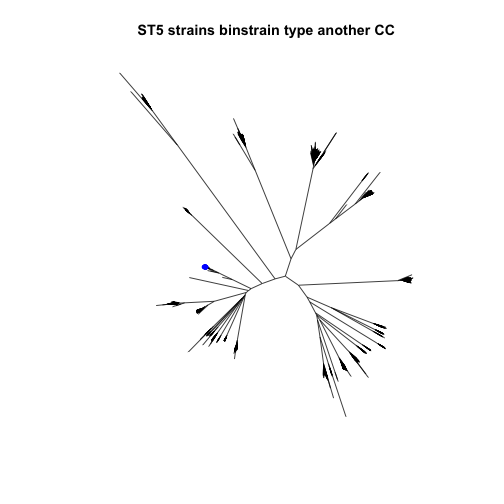
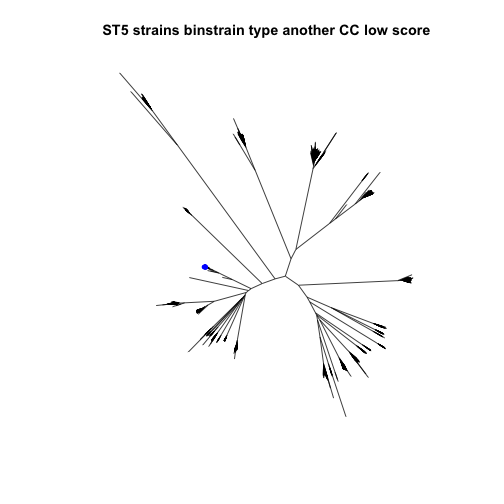
rerun ST5 figures

Changed region(s): [[0.2083, 0.0298, 0.8631, 0.0893]]

diff --git a/ST_tree_figure.md b/ST_tree_figure.md
@@ -89,8 +89,8 @@ Load in the binstrain assignments for the ST5 and dive into those that were assi
 ```r
 St5_assign <- read.table("./Data/Final_highest_Beta_real_ST_5.txt",header = FALSE, stringsAsFactors = FALSE)
 CC5_St5 <- filter(St5_assign, grepl("CC_5",V2)) %>% select(V1)
-ST5_not_CC5 <- filter(St5_assign, !grepl("CC_5",V2)) %>% filter(V3 > 0.7) %>% select(V1)
-ST5_not_anything <- filter(St5_assign, !grepl("CC_5",V2)) %>% filter(V3 <= 0.7) %>% select(V1)
+ST5_not_CC5 <- filter(St5_assign, !grepl("CC_5",V2)) %>% filter(V3 > 0.8) %>% select(V1)
+ST5_not_anything <- filter(St5_assign, !grepl("CC_5",V2)) %>% filter(V3 <= 0.8) %>% select(V1)
 ```
 ### Now print the different assignments
 
@@ -106,7 +106,7 @@ tiplabels(tip = tips2label, pch= 20, col = "blue")
 
 ```r
 tips2label <- which(NJ$tip.label %in% ST5_not_CC5[,"V1"])
-tit <- "ST5 strains binstrain type another CC"
+tit <- "ST5 strains binstrain type another CC low score"
 plot(NJ, "unrooted", show.tip.label = FALSE, main = tit)
 tiplabels(tip = tips2label, pch= 20, col = "blue")
 ```
@@ -116,11 +116,11 @@ tiplabels(tip = tips2label, pch= 20, col = "blue")
 
 ```r
 tips2label <- which(NJ$tip.label %in% ST5_not_anything[,"V1"])
-tit <- "ST5 strains binstrain type another CC but low score"
+tit <- "ST5 strains binstrain type another CC"
 plot(NJ, "unrooted", show.tip.label = FALSE, main = tit)
 tiplabels(tip = tips2label, pch= 20, col = "blue")
 ```
 
-![plot of chunk ST5_classed_as_nothing](figure/ST5_classed_as_nothing-1.png)
+![plot of chunk ST5](figure/ST5-1.png)
 
 
